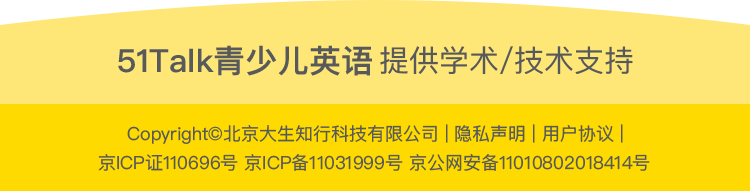
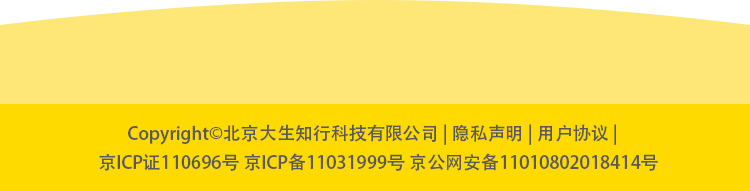
index

Changed region(s): [[0.1533, 0.2356, 0.8587, 0.3927], [0.1533, 0.6545, 0.828, 0.7592], [0.1227, 0.8115, 0.8893, 0.8901]]

diff --git a/src/scss/index.scss b/src/scss/index.scss
@@ -466,6 +466,19 @@
         background-image: url('../images/index/copyRight.png');
         background-repeat: no-repeat;
         background-size: 100% 100%;
+
+        .support{
+            @include font-dpr(30px,38px);
+            color: #58595b;
+            text-align: center;
+            padding: pxToRem(40px) 0 pxToRem(35px);
+
+            .word{
+                @include font-dpr(32px,38px);
+                color: #58595b;
+                font-weight: bold;
+            }
+        }
     }
 }
 

diff --git a/html/index.html b/html/index.html
@@ -232,7 +232,11 @@
             <p class="column4">4-上传报名视频</p>
             <p class="column5">5-好友加油助威</p>
         </div>
-        <div class="footer"></div>
+        <div class="footer">
+            <p class="support">
+                <span class="word">51Talk青少儿英语</span> 提供学术/技术支持
+            </p>
+        </div>
     </div>
     <iframe id="rule" name="rule" src="rule.html"></iframe>
 </body>
